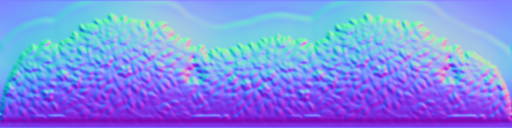
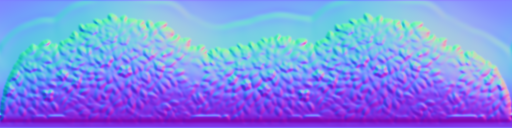
Paradise hedge: seal the gaps that showed as white stars
The hedge's art had enclosed holes between its leaves. Against pale
stone they read as bright stars on every hedge in the garden. They are
now painted as the shade between leaves.

Changed region(s): [[0.8438, 0.4062, 0.9062, 0.6875], [0.3438, 0.4062, 0.4062, 0.6875]]

diff --git a/tools/ai_art/kit_polish.py b/tools/ai_art/kit_polish.py
@@ -5,6 +5,7 @@ so running it twice is safe.
 - plants cut off by the side of their image taper to a point, as a frond would;
 - hanging plants lose the flat row they were cropped along, for a ragged leafy top;
 - wisteria loses the pale band painted over its top, so the leaves are its top edge;
+- the hedge's enclosed gaps are sealed, so the pale stone behind does not show as stars;
 - the bounce pod is recoloured from mint to the garden's cream and gold, its glow calmed.
 
   python tools/ai_art/kit_polish.py
@@ -122,6 +123,29 @@ def polish_plants() -> None:
             print(f"polished {name}")
 
 
+def close_holes() -> None:
+    """Seals the gaps a hedge's leaves were cut around, which read as white stars against pale stone."""
+    path = os.path.join(NATURE, "hedge_flowers.png")
+    rgba = load(path)
+    solid = (rgba[..., 3] > 128).astype(np.uint8)
+    count, labels, stats, _ = cv2.connectedComponentsWithStats(1 - solid, connectivity=4)
+    h, w = solid.shape
+    holes = np.zeros((h, w), np.uint8)
+    for i in range(1, count):
+        x, y, cw, ch, _ = stats[i]
+        if x > 0 and y > 0 and x + cw < w and y + ch < h:
+            holes[labels == i] = 1
+    if not holes.any():
+        return
+    grown = cv2.dilate(holes, np.ones((3, 3), np.uint8)) > 0
+    filled = cv2.inpaint(rgba[..., :3].astype(np.uint8), grown.astype(np.uint8), 5, cv2.INPAINT_TELEA)
+    # Painted as the shade between leaves, the darkest thing in a gap.
+    rgba[..., :3][grown] = filled[grown].astype(np.float32) * 0.55
+    rgba[..., 3][grown] = 255.0
+    save(path, rgba)
+    print("closed the hedge's holes")
+
+
 def recolour_pod() -> None:
     rgba = load(POD)
     rgb = rgba[..., :3].astype(np.uint8)
@@ -160,4 +184,5 @@ def recolour_pod() -> None:
 
 if __name__ == "__main__":
     polish_plants()
+    close_holes()
     recolour_pod()
